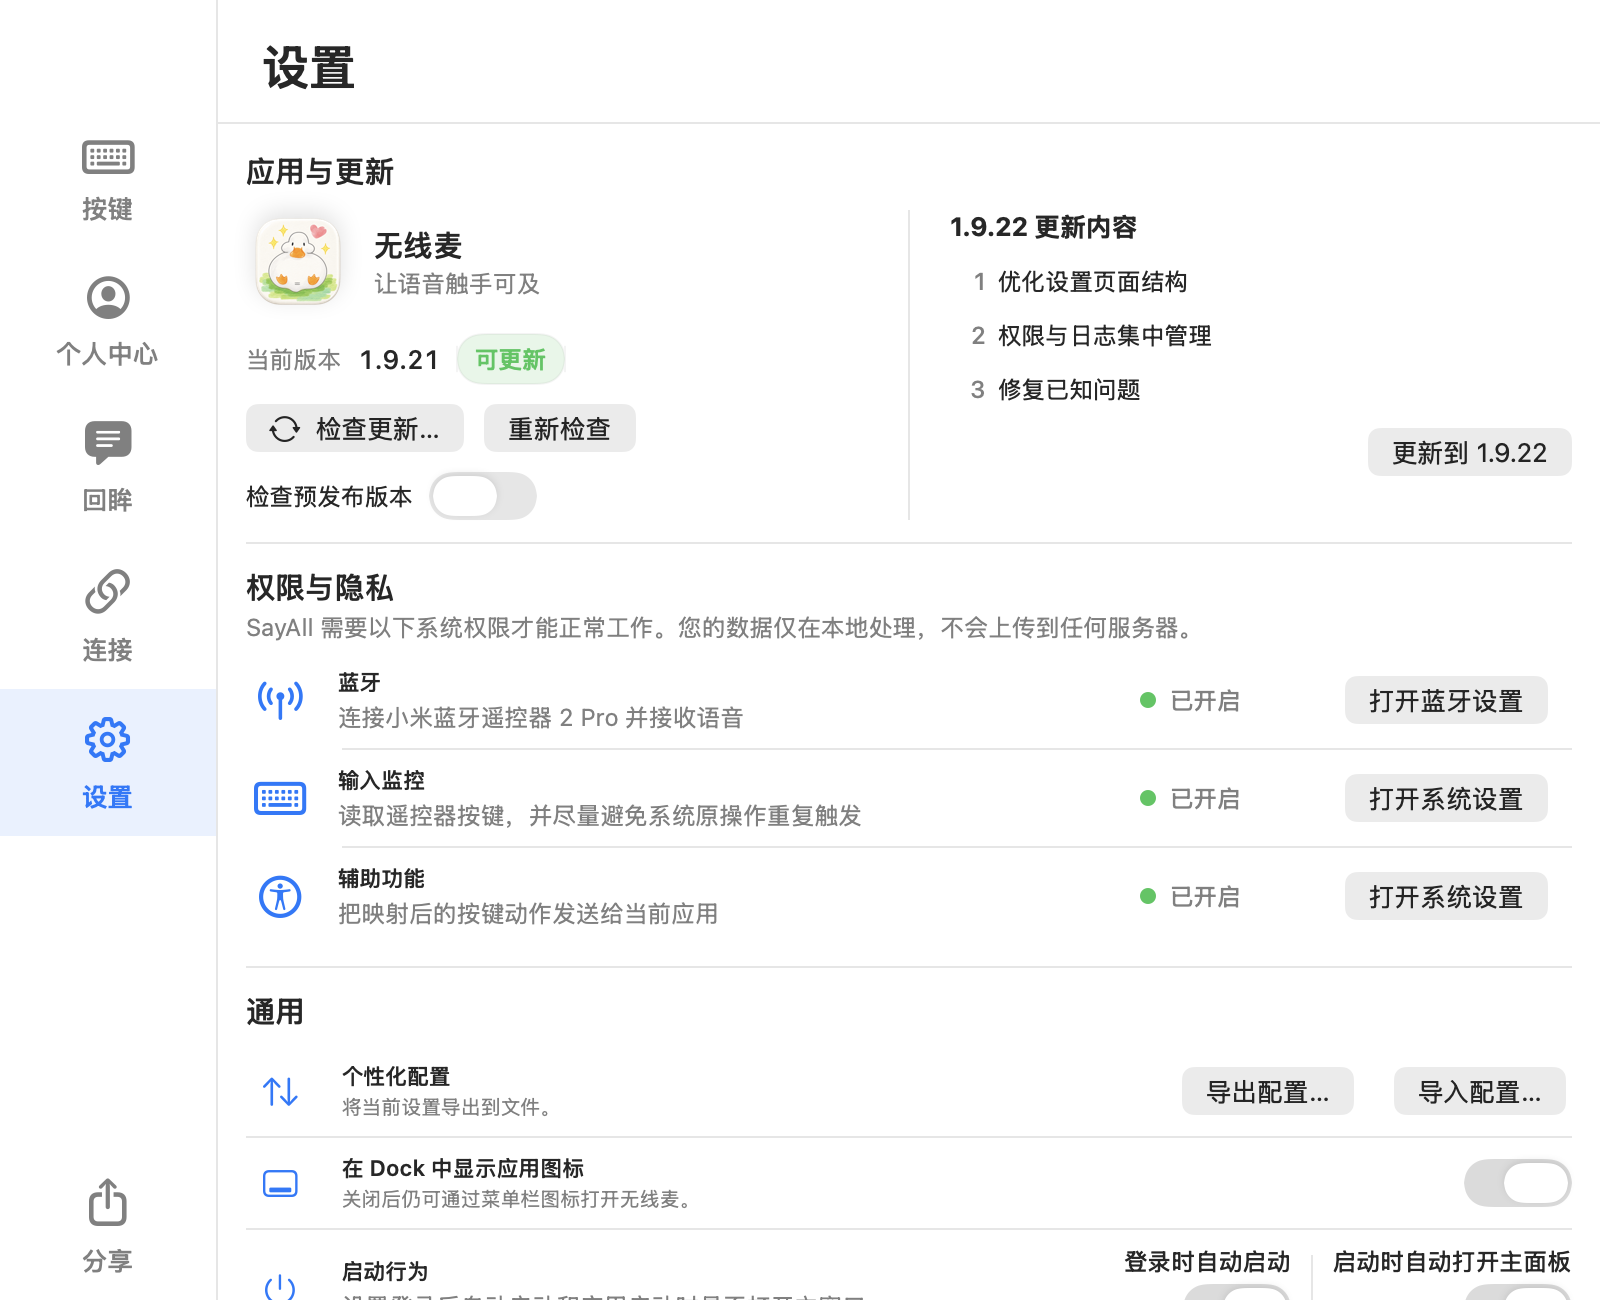
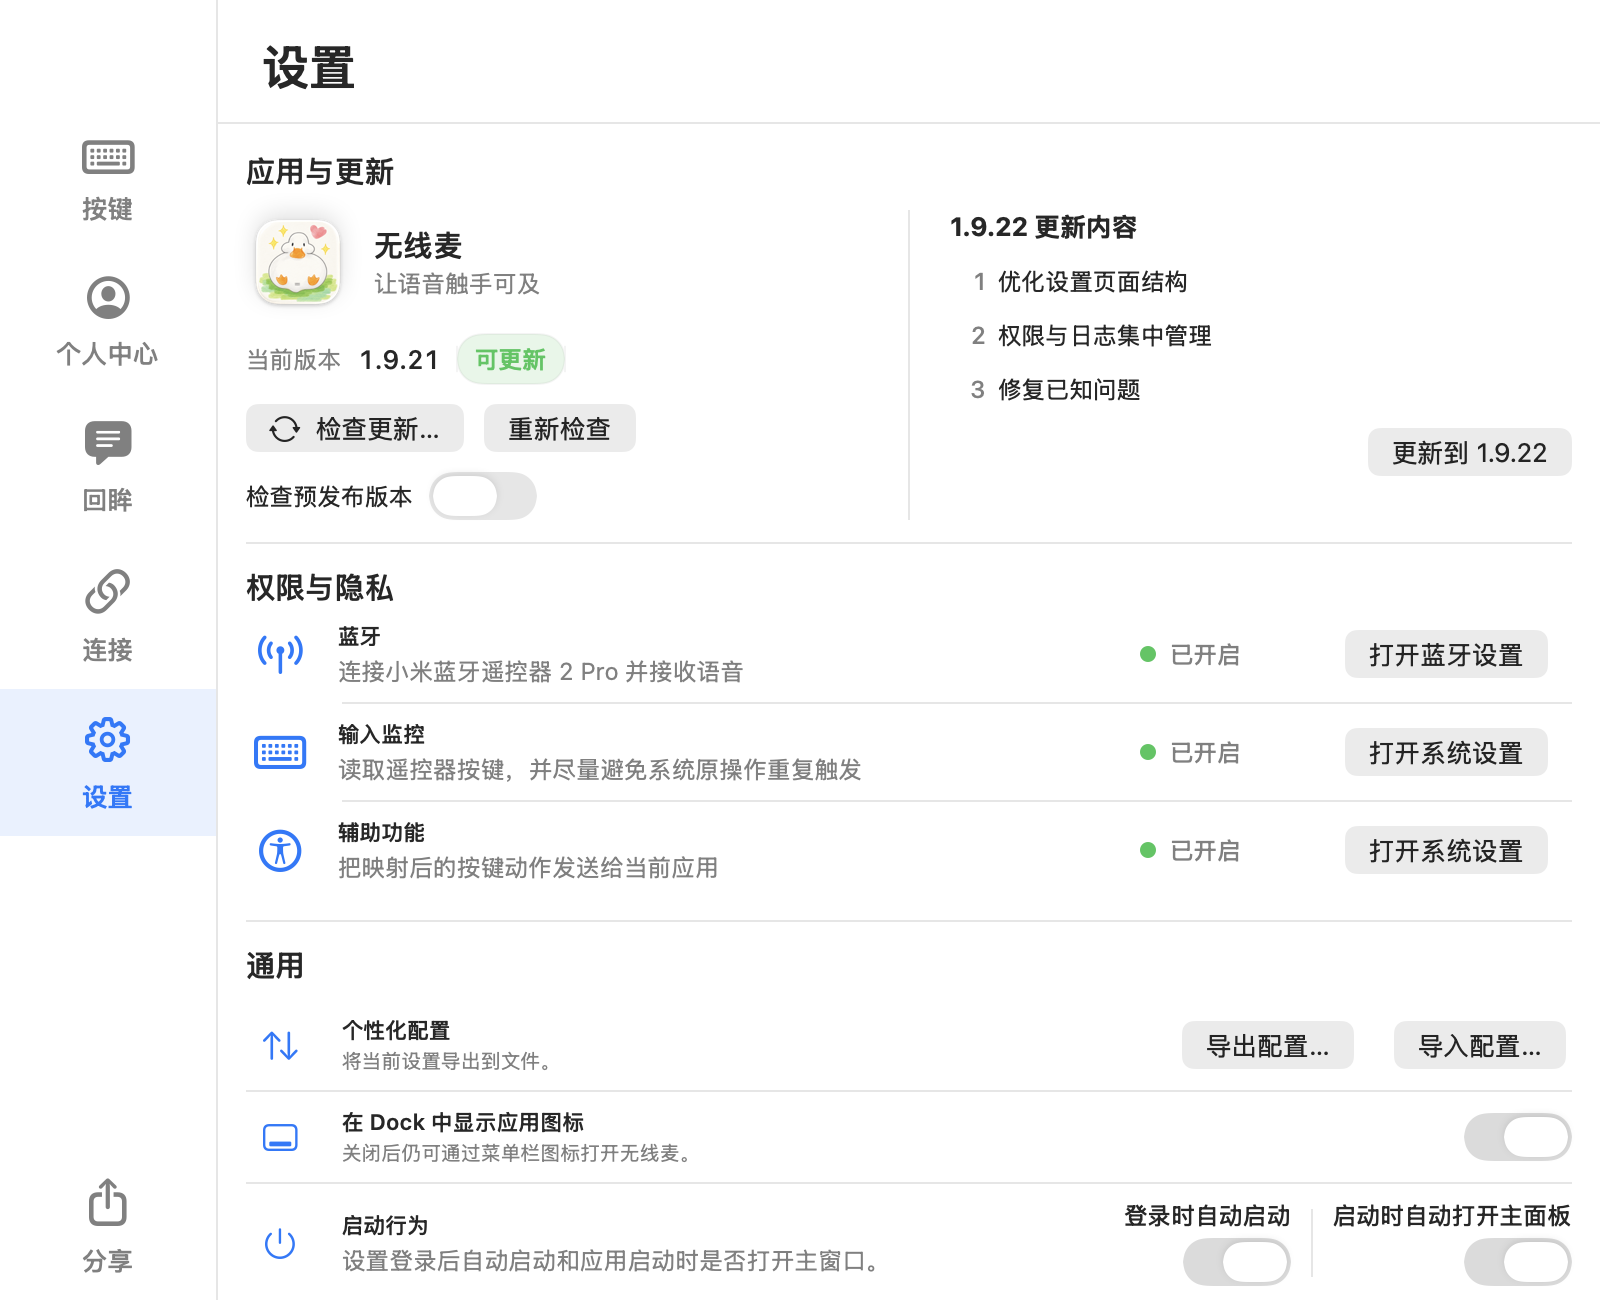
fix: remove absolute local data claim

diff --git a/Sources/RemoteMic/SettingsView.swift b/Sources/RemoteMic/SettingsView.swift
@@ -2659,11 +2659,6 @@ struct SettingsView: View {
         VStack(alignment: .leading, spacing: 0) {
             Text("settings.permissions.title")
                 .font(.title3.weight(.semibold))
-            Text("settings.permissions.description")
-                .font(.system(size: 12))
-                .foregroundStyle(.secondary)
-                .padding(.top, 3)
-                .padding(.bottom, 5)
 
             permissionRow(
                 symbol: "antenna.radiowaves.left.and.right",

diff --git a/design-qa.md b/design-qa.md
@@ -141,10 +141,10 @@ final result: passed（横向布局与静态字号；真实窗口交互和真实
 ## 2026-09-10 设置页设计稿一致性 QA
 
[5 lines of base64/hex data omitted]
-- 顶部重点区域对照：`Screenshots/settings-page/qa-comparisons/design-vs-actual-top.png`，用于核对应用信息、版本检查、Release Notes、权限行和分隔线；没有对设计或实现内容做重绘。
[2 lines of base64/hex data omitted]
 
 ### 比较历史
 
